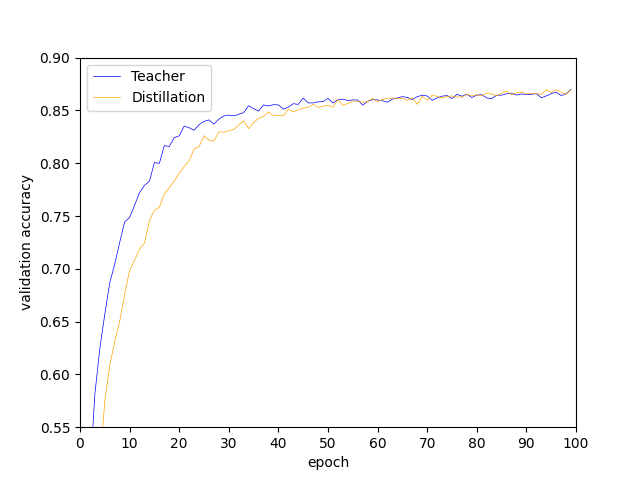
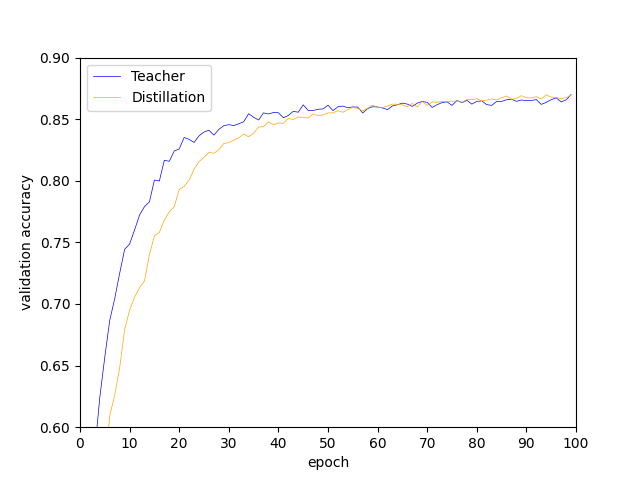
CAM-Distillation

diff --git a/result.py b/result.py
@@ -3,7 +3,7 @@ import numpy as np
 import matplotlib.pyplot as plt
 
 def main():           
-    epochs = 200
+    epochs = 100
     
     # setting iteration
     if epochs == 200:
@@ -19,7 +19,7 @@ def main():
     elif epochs == 100: 
         teacher_iter = 5 
         student_iter = 0 
-        st_iter      = 3 
+        st_iter      = 5 # now
         cam01_iter   = 0 
         cam02_iter   = 0 
         cam03_iter   = 0
@@ -87,7 +87,7 @@ def main():
     plt.plot(x, teacher_acc, label='Teacher',                linewidth=0.5, color='blue')
     # plt.plot(x, student_acc, label='Student',                linewidth=0.5, color='red')
     plt.plot(x, st_acc,      label='Distillation',           linewidth=0.5, color='orange')
-    plt.plot(x, cam10_acc,   label='Proposed(rate=0.1->0)',  linewidth=0.5, color='green')
+    # plt.plot(x, cam10_acc,   label='Proposed(rate=0.1->0)',  linewidth=0.5, color='green')
     # plt.plot(x, cam01_acc,   label='Proposed(rate=0.1)',     linewidth=0.5, color='cyan')
     # plt.plot(x, cam02_acc,   label='Proposed(rate=0.2)',     linewidth=0.5, color='magenta')
     # plt.plot(x, cam03_acc,   label='Proposed(rate=0.3)',     linewidth=0.5, color='yellow')
@@ -97,7 +97,7 @@ def main():
     plt.xticks(np.arange(0, epochs+10, epochs/10))
     plt.yticks(np.arange(0, 0.95, 0.05))
     plt.xlim(0, epochs)
-    plt.ylim(0.55, 0.90)
+    plt.ylim(0.60, 0.90)
     plt.legend()
     plt.savefig('./result/resnet_' + str(epochs) + '.png')
     

diff --git a/train_cam.py b/train_cam.py
@@ -7,7 +7,7 @@ import torch.nn as nn
 import torchvision.transforms as transforms
 from torchvision import datasets
 from torch.utils.data import random_split, DataLoader
-from src.model import resnet_student, resnet_teacher, Student, Teacher
+from src.model import resnet_student, resnet_teacher
 import torch.optim as optimizers
 from sklearn.metrics import accuracy_score
 from src.kd_loss.st import SoftTargetLoss
@@ -16,7 +16,7 @@ import pickle
 from src.utils import *
 
 def main():
-    for i in range(1):
+    for i in range(3, 5):
         print(i)
         cam_rate = '01' # default: '01', CAM-curriculum: '10'
         epochs = 100

diff --git a/train_kd.py b/train_kd.py
@@ -6,7 +6,7 @@ import torch.nn as nn
 import torchvision.transforms as transforms
 from torchvision import datasets
 from torch.utils.data import random_split, DataLoader
-from src.model import resnet_student, resnet_teacher, Student, Teacher
+from src.model import resnet_student, resnet_teacher
 from src.utils import *
 import torch.optim as optimizers
 from sklearn.metrics import accuracy_score
@@ -14,7 +14,7 @@ from src.kd_loss.st import SoftTargetLoss
 import pickle
 
 def main():
-    for i in range(1, 3):
+    for i in range(5):
         print(i)
         epochs = 100
         batch_size = 128

diff --git a/train.py b/train.py
@@ -6,7 +6,7 @@ import torch.nn as nn
 import torchvision.transforms as transforms
 from torchvision import datasets
 from torch.utils.data import random_split, DataLoader
-from src.model import resnet_student, resnet_teacher, Student, Teacher
+from src.model import resnet_student, resnet_teacher
 from src.utils import EarlyStopping
 import torch.optim as optimizers
 from sklearn.metrics import accuracy_score
